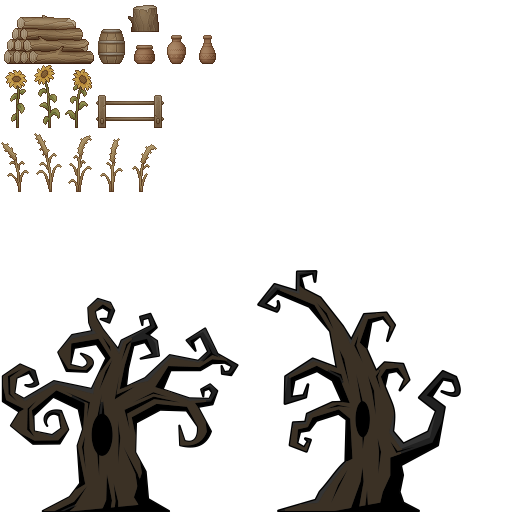
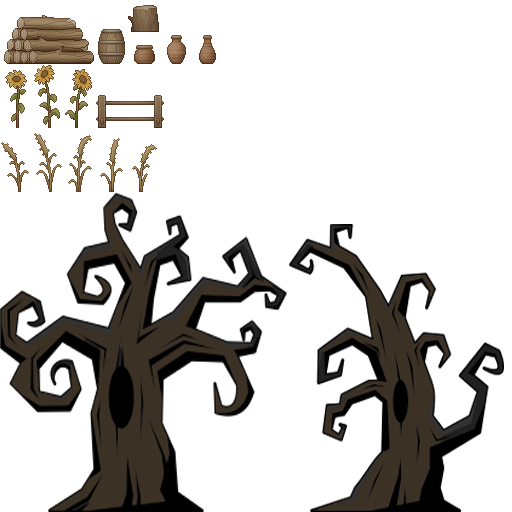
added object-3 tile image

Changed region(s): [[0.0, 0.375, 1.0, 1.0]]

diff --git a/media/tiled/object-3.tsx b/media/tiled/object-3.tsx
@@ -1,0 +1,4 @@
+<?xml version="1.0" encoding="UTF-8"?>
+<tileset version="1.10" tiledversion="1.11.0" name="object-3" tilewidth="32" tileheight="32" tilecount="256" columns="16">
+ <image source="../image/map/tile-object-3.png" width="512" height="512"/>
+</tileset>

diff --git a/src/resources.cpp b/src/resources.cpp
@@ -44,26 +44,29 @@ namespace halloween
 
         const std::string imagePath = (settings.media_path / "image/map/").string();
 
-        // ground map tile image
         ground_texture.which = TileImage::Ground;
         ground_texture.texture.loadFromFile(imagePath + "tile-ground.png");
         ground_texture.texture.setSmooth(settings.will_smooth_tile_textures);
         ground_texture.size = sf::Vector2i(ground_texture.texture.getSize());
         ground_texture.gid = 1;
 
-        // object-1 map tile image
         object_texture1.texture.loadFromFile(imagePath + "tile-object-1.png");
         object_texture1.which = TileImage::Object1;
         object_texture1.texture.setSmooth(settings.will_smooth_tile_textures);
         object_texture1.size = sf::Vector2i(object_texture1.texture.getSize());
         object_texture1.gid = 513;
 
-        // object-2 map tile image
         object_texture2.texture.loadFromFile(imagePath + "tile-object-2.png");
         object_texture2.which = TileImage::Object2;
         object_texture2.texture.setSmooth(settings.will_smooth_tile_textures);
         object_texture2.size = sf::Vector2i(object_texture2.texture.getSize());
         object_texture2.gid = 257;
+
+        object_texture3.texture.loadFromFile(imagePath + "tile-object-3.png");
+        object_texture3.which = TileImage::Object3;
+        object_texture3.texture.setSmooth(settings.will_smooth_tile_textures);
+        object_texture3.size = sf::Vector2i(object_texture3.texture.getSize());
+        object_texture3.gid = 769;
     }
 
     const sf::Text Resources::makeText(
@@ -73,6 +76,23 @@ namespace halloween
         text.setFillColor(color);
         util::setOriginToPosition(text);
         return text;
+    }
+
+    const TileTexture & Resources::tileTexture(const TileImage image) const
+    {
+        // clang-format off
+        switch (image)
+        {
+            case TileImage::Ground:  { return ground_texture;  }
+            case TileImage::Object1: { return object_texture1; }
+            case TileImage::Object2: { return object_texture2; }
+            case TileImage::Object3: { return object_texture3; }
+            default:
+            {
+                throw std::runtime_error("Resources::tileTexture() given an invalid image enum.");
+            }
+        }
+        // clang-format on
     }
 
 } // namespace halloween

diff --git a/src/resources.hpp b/src/resources.hpp
@@ -42,6 +42,8 @@ namespace halloween
         const sf::Text
             makeText(unsigned int charSize, const std::string & str, const sf::Color & color) const;
 
+        const TileTexture & tileTexture(const TileImage image) const;
+
         sf::Font font;
         sf::Text fps_text;
 
@@ -53,19 +55,7 @@ namespace halloween
         TileTexture ground_texture;
         TileTexture object_texture1;
         TileTexture object_texture2;
-
-        const TileTexture & tileTexture(const TileImage image)
-        {
-            // clang-format off
-            switch (image)
-            {
-                case TileImage::Ground:  { return ground_texture;  }
-                case TileImage::Object1: { return object_texture1; }
-                case TileImage::Object2: 
-                default:                 { return object_texture2; }
-            }
-            // clang-format on
-        }
+        TileTexture object_texture3;
     };
 
 } // namespace halloween

diff --git a/src/tileset.hpp b/src/tileset.hpp
@@ -19,7 +19,8 @@ namespace halloween
     {
         Ground = 0,
         Object1,
-        Object2
+        Object2,
+        Object3
     };
 
     inline std::ostream & operator<<(std::ostream & os, const TileImage image)
@@ -30,6 +31,7 @@ namespace halloween
             case TileImage::Ground:  { os << "ground";   break; }
             case TileImage::Object1: { os << "object-1"; break; }
             case TileImage::Object2: { os << "object-2"; break; }
+            case TileImage::Object3: { os << "object-3"; break; }
             default:                 { assert(false);    break; }
         }
         // clang-format on

diff --git a/src/level-file-loader.cpp b/src/level-file-loader.cpp
@@ -155,6 +155,10 @@ namespace halloween
             {
                 parseTileLayer(context, TileImage::Object2, jsonLayer);
             }
+            else if (layerName == "object-3")
+            {
+                parseTileLayer(context, TileImage::Object3, jsonLayer);
+            }
             else if (layerName == "collision")
             {
                 parseRectLayer(context, jsonLayer, context.level.walk_collisions);
